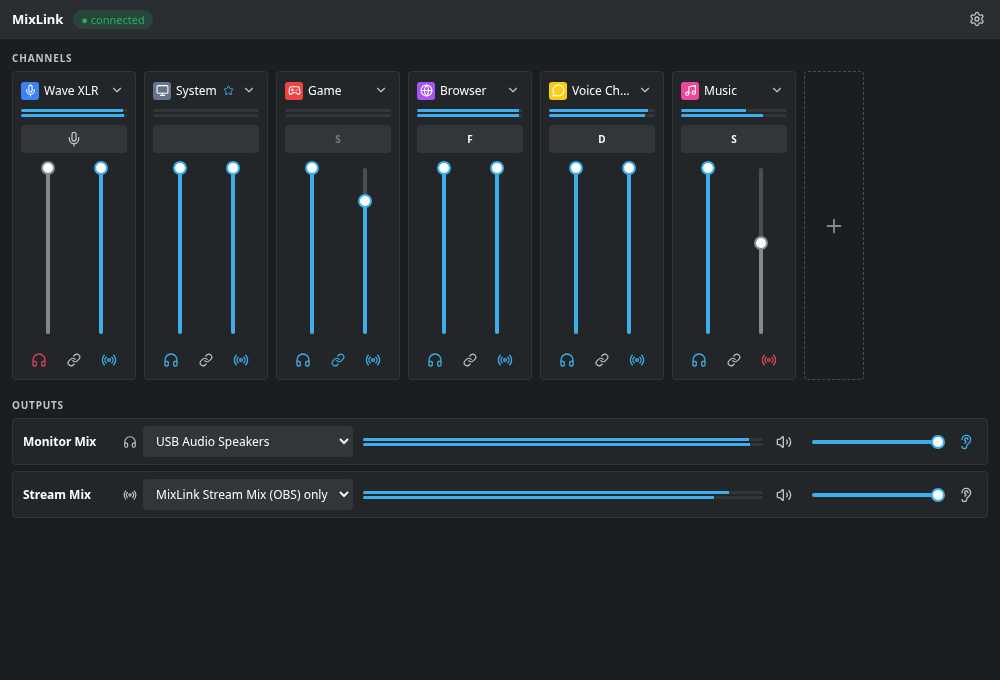
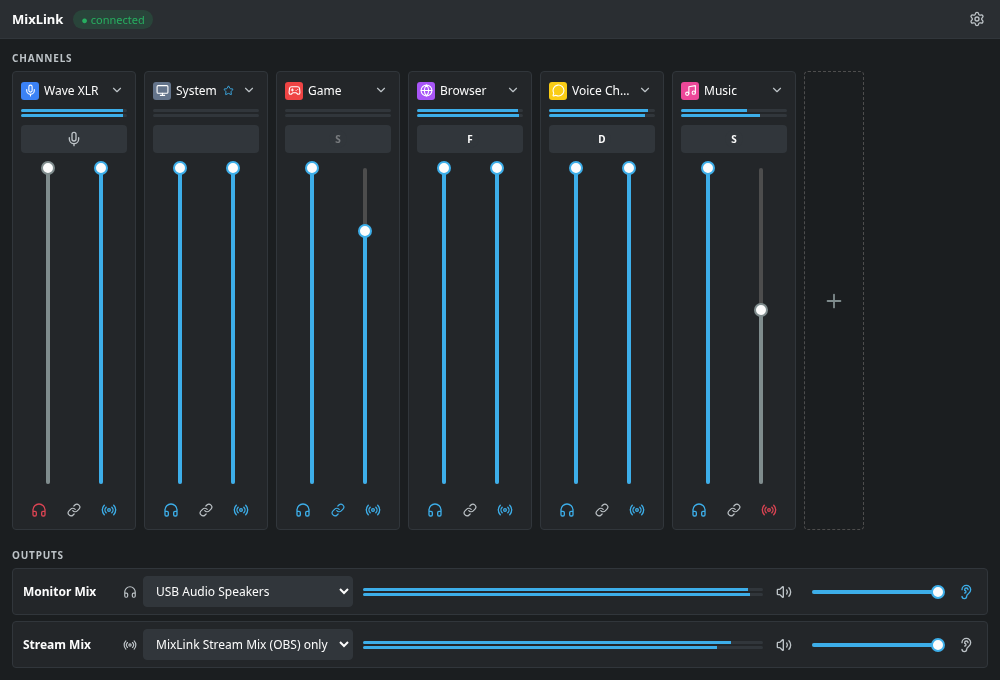
gui: fill window height, no empty area below channel strips
Channel strips now stretch to the Channels area's height instead of using a
fixed 180px fader height, so the two faders grow to fill available vertical
space (min 120px) while the header/meter/app field/buttons keep their natural
size. The Channels area scrolls vertically if the window is too small instead
of overlapping Outputs, which stays pinned at the bottom.

Shrink the default window to 900x560 (minHeight 460) so a fresh window looks
balanced, add a small-viewport (900x560) screenshot check, and refresh the
README screenshot.

diff --git a/gui/src/App.svelte b/gui/src/App.svelte
@@ -68,9 +68,10 @@
     background: color-mix(in srgb, var(--danger) 18%, transparent); }
   .conn.ok { color: var(--ok); background: color-mix(in srgb, var(--ok) 18%, transparent); }
   .spacer { flex: 1; }
-  main { flex: 1; overflow: auto; padding: 0 0 12px; }
+  main { flex: 1; min-height: 0; display: flex; flex-direction: column; overflow: hidden; padding: 0 0 12px; }
   .section { margin: 12px 12px 6px; font-size: 10px; font-weight: 600; letter-spacing: 0.08em;
-    text-transform: uppercase; color: var(--text-dim); }
-  .strips { display: flex; gap: 8px; padding: 0 12px 6px; overflow-x: auto; align-items: stretch; }
-  .outputs { display: flex; flex-direction: column; gap: 6px; padding: 0 12px; }
+    text-transform: uppercase; color: var(--text-dim); flex: none; }
+  .strips { display: flex; gap: 8px; padding: 0 12px 6px; overflow: auto; align-items: stretch;
+    flex: 1; min-height: 0; }
+  .outputs { display: flex; flex-direction: column; gap: 6px; padding: 0 12px; flex: none; }
 </style>

diff --git a/gui/e2e/screenshots.spec.ts b/gui/e2e/screenshots.spec.ts
@@ -7,6 +7,17 @@ test("main window", async ({ page }) => {
   await page.screenshot({ path: "screenshots/main.png" });
 });
 
+test.describe("small viewport", () => {
+  test.use({ viewport: { width: 900, height: 560 } });
+
+  test("main window at small window size", async ({ page }) => {
+    await page.goto("/");
+    await expect(page.getByTestId("strip-music")).toBeVisible();
+    await page.waitForTimeout(400);
+    await page.screenshot({ path: "screenshots/main-small.png" });
+  });
+});
+
 test("disconnected", async ({ page }) => {
   await page.goto("/?disconnected=1");
   await expect(page.getByText("MixLink service is not running")).toBeVisible();

diff --git a/gui/src/components/ChannelStrip.svelte b/gui/src/components/ChannelStrip.svelte
@@ -84,6 +84,6 @@
   .ico { width: 18px; height: 18px; border-radius: 3px; display: inline-flex; align-items: center; justify-content: center; color: #fff; flex: none; }
   .name { flex: 1; overflow: hidden; text-overflow: ellipsis; white-space: nowrap; }
   .fallback { color: var(--accent); display: inline-flex; }
-  .faders { display: flex; justify-content: space-around; height: 180px; }
+  .faders { display: flex; justify-content: space-around; flex: 1; min-height: 120px; }
   .buttons { display: flex; justify-content: space-around; }
 </style>
